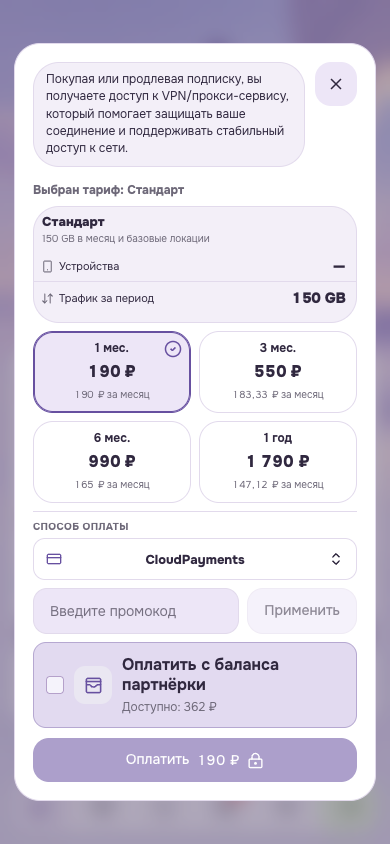
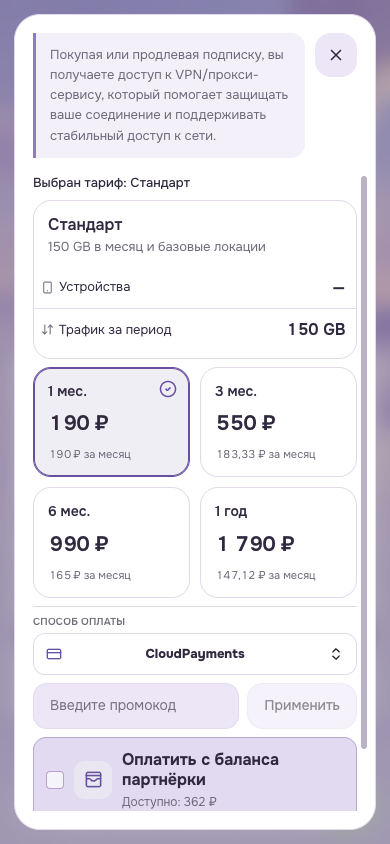
Improve checkout typography and pricing cards

diff --git a/style.css b/style.css
@@ -371,9 +371,44 @@
 }
 
 /* Checkout descriptions must remain readable beside the edit action. */
+.theme-key-avio-landing .webapp-payment-dialog {
+  font-synthesis: none;
+}
+.theme-key-avio-landing .subscription-purchase-description-header {
+  padding: 12px 14px;
+  border: 0;
+  border-left: 3px solid color-mix(in srgb, var(--accent) 72%, transparent);
+  border-radius: 0 14px 14px 0;
+  background: color-mix(in srgb, var(--panel-2) 58%, transparent);
+  box-shadow: none;
+}
+.theme-key-avio-landing .subscription-purchase-description-header p {
+  color: var(--muted);
+  font-size: 13px;
+  font-weight: 400;
+  line-height: 1.55;
+  letter-spacing: 0;
+}
+.theme-key-avio-landing .tariff-step-caption {
+  color: var(--text);
+  font-size: 13px;
+  font-weight: 500;
+  line-height: 1.4;
+}
+.theme-key-avio-landing .checkout-tariff-card {
+  border-radius: 18px;
+  background: color-mix(in srgb, var(--panel) 94%, transparent);
+  box-shadow: none;
+}
+.theme-key-avio-landing .checkout-tariff-card-head {
+  padding: 14px 14px 10px;
+}
 .theme-key-avio-landing .checkout-tariff-title-line > strong {
   flex: 0 1 auto;
   min-width: 0;
+  font-size: 16px;
+  font-weight: 600;
+  line-height: 1.3;
   overflow-wrap: anywhere;
 }
 .theme-key-avio-landing .checkout-tariff-description-line {
@@ -389,7 +424,83 @@
   overflow: visible;
   text-overflow: clip;
   overflow-wrap: anywhere;
+  color: var(--muted);
+  font-size: 13px;
+  font-weight: 400;
   line-height: 1.5;
+}
+.theme-key-avio-landing .checkout-tariff-summary-static {
+  padding: 0 0 8px;
+}
+.theme-key-avio-landing .checkout-tariff-fact {
+  min-height: 42px;
+}
+.theme-key-avio-landing .checkout-addon-label {
+  font-size: 13px;
+  font-weight: 400;
+  line-height: 1.35;
+}
+.theme-key-avio-landing .checkout-addon-value,
+.theme-key-avio-landing .checkout-addon-unlimited {
+  font-size: 16px;
+  font-weight: 650;
+  letter-spacing: -.015em;
+}
+.theme-key-avio-landing .period-grid {
+  gap: 10px;
+}
+.theme-key-avio-landing .period-card {
+  min-height: 104px;
+  grid-template-rows: auto auto auto;
+  justify-items: start;
+  align-content: center;
+  gap: 7px;
+  padding: 14px;
+  border-radius: 18px;
+  background: color-mix(in srgb, var(--panel) 92%, transparent);
+  text-align: left;
+  box-shadow: none;
+}
+.theme-key-avio-landing .period-card strong {
+  color: var(--text);
+  font-size: 14px;
+  font-weight: 600;
+  line-height: 1.3;
+  text-align: left;
+}
+.theme-key-avio-landing .period-card > span,
+.theme-key-avio-landing .period-card .promo-price-pair {
+  color: var(--text);
+  font-size: 21px;
+  font-weight: 650;
+  line-height: 1.1;
+  letter-spacing: -.025em;
+}
+.theme-key-avio-landing .period-card small,
+.theme-key-avio-landing .period-card em {
+  color: var(--muted);
+  font-size: 11px;
+  font-style: normal;
+  font-weight: 400;
+  line-height: 1.35;
+  text-align: left;
+}
+.theme-key-avio-landing .period-card.active {
+  border-color: var(--accent);
+  background: color-mix(in srgb, var(--accent) 10%, var(--panel));
+  box-shadow: inset 0 0 0 1px var(--accent);
+}
+.theme-key-avio-landing .period-card svg {
+  top: 12px;
+  right: 12px;
+}
+.theme-key-avio-landing .payment-method-picker-label,
+.theme-key-avio-landing .section-kicker {
+  font-weight: 600;
+  letter-spacing: .02em;
+}
+.theme-key-avio-landing .payment-submit-button {
+  font-weight: 600;
 }
 
 /* Tickets need their full title width, independent of the viewport breakpoint. */
@@ -496,6 +607,7 @@ html.theme-key-avio-landing :is(.install-platform-item, .language-select-item, .
   .theme-key-avio-landing .home-bottom { padding: 14px; border-radius: 26px; }
   .theme-key-avio-landing.app-shell:has(.bottom-nav) { background-position: center, 66% top !important; background-attachment: scroll !important; }
   .theme-key-avio-landing :is(.period-card, .method-card, .option-row) { border-radius: 20px; }
+  .theme-key-avio-landing .period-card { border-radius: 18px; }
 }
 @media (prefers-reduced-motion: reduce) {
   .theme-key-avio-landing *,

diff --git a/README.md b/README.md
@@ -1,7 +1,7 @@
 # Avio — Твой интернет
 
-Версия 1.4.2: официальные иконки всех приложений, нумерованные шаги
-установки, крупные кнопки и вторичный стиль запасной ссылки магазина.
+Версия 1.5.0: облегчённая типографика окна оплаты, более спокойный информационный
+блок и карточки периодов с чёткой иерархией срока, цены и стоимости за месяц.
 
 Установить тему можно по адресу этого публичного репозитория или ZIP-архивом
 из раздела Releases.
